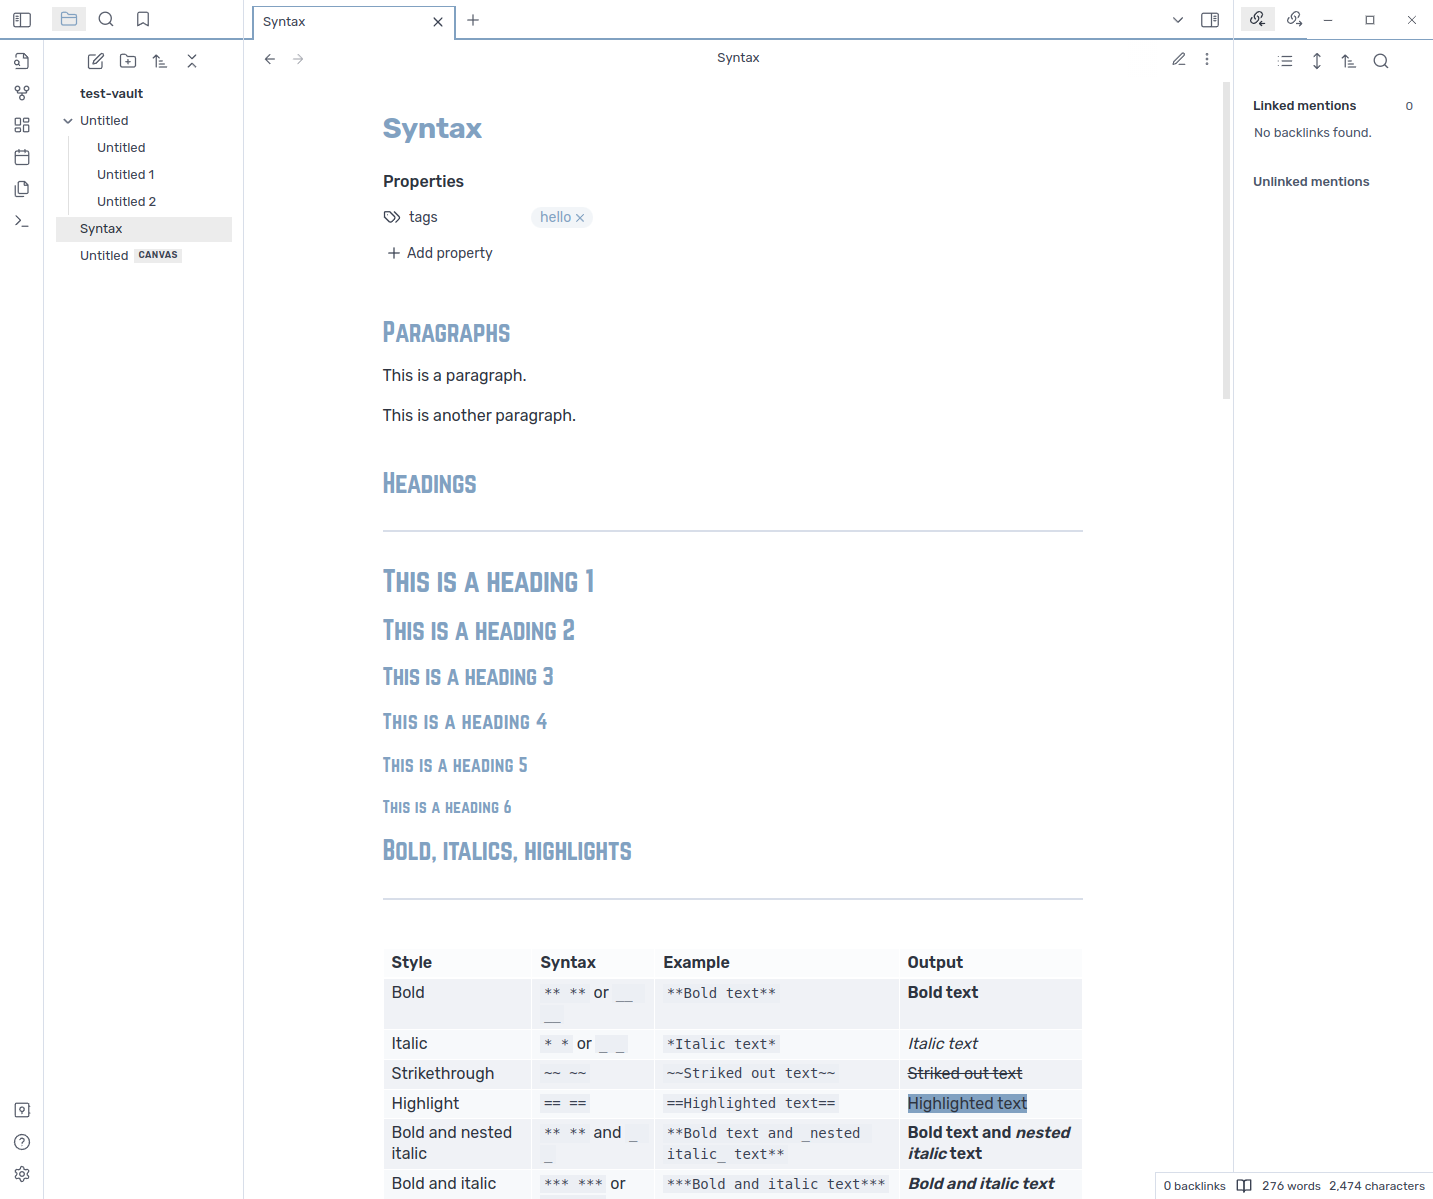
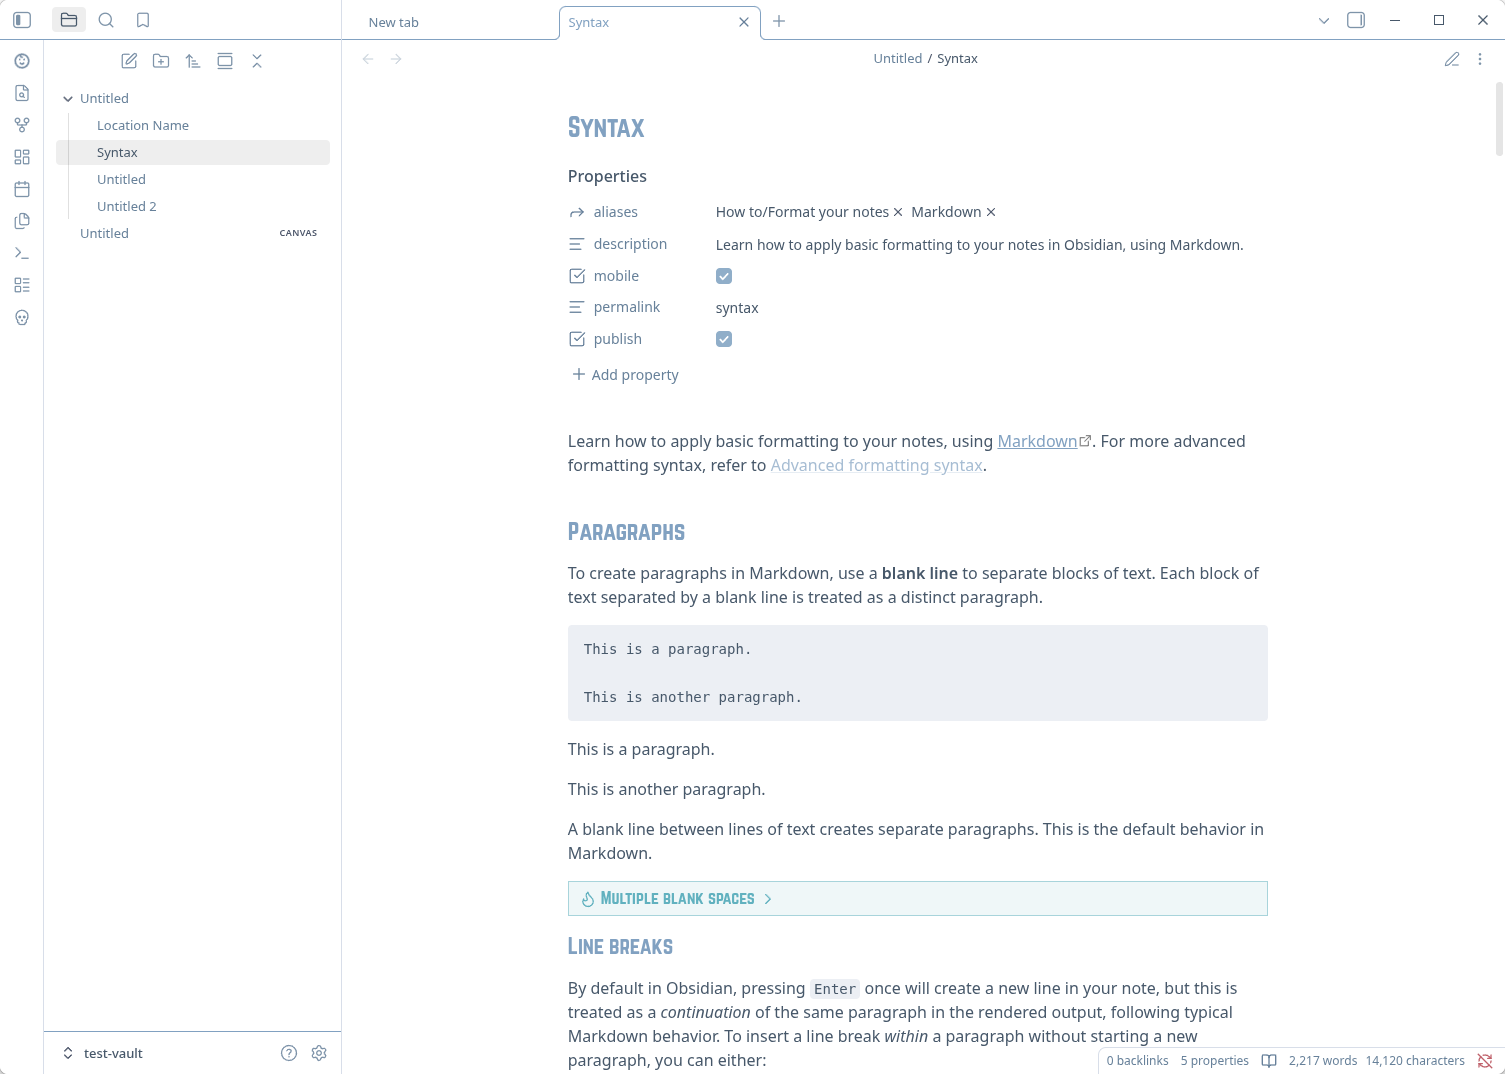
chore: update readme

diff --git a/src/styled-settings.css b/src/styled-settings.css
@@ -13,7 +13,6 @@ settings:
         options:
             - nordic-base
             - nordic-uniform
-
     - 
         id: nordic-colored-headers
         title: Colored Headers (Rainbow Headers)

diff --git a/README.md b/README.md
@@ -5,15 +5,12 @@
 
 ---
 
-
-
-
 ## Flavors
 
 ### Base
 |      Light         |         Dark       |
 |---------------------|---------------------|
-| ![](assets/flavors/flavor-default-light.png) | ![](assets/flavors/flavor-default.png) |
+| ![](assets/flavors/flavor-base-light.png) | ![](assets/flavors/flavor-base.png) |
 
 
 ### Uniform
@@ -25,10 +22,19 @@
 ## Plugins
 > This is a list of all the plugins the theme currently explicitly supports
 - [Fantasy Statblocks](https://github.com/javalent/fantasy-statblocks)
+- [Styled Settings]()
 
+
+## Installation
+
+### Obsidian
+- Goto settings
+- Click appearances tab
+- Next to themes click manage
+- Search for `Nordic` and select it
+- Click `Use this theme`, you are done :)
 
 ## Credits
-- [Manrope font](https://fonts.google.com/specimen/Manrope)
 - [Norwester font by James Wilson](https://jamiewilson.io/norwester/)
 - [Nord Theme](https://www.nordtheme.com/): for the amazing palette 
 - [Obsidian Nord](https://github.com/insanum/obsidian_nord): for the initial inspiration
